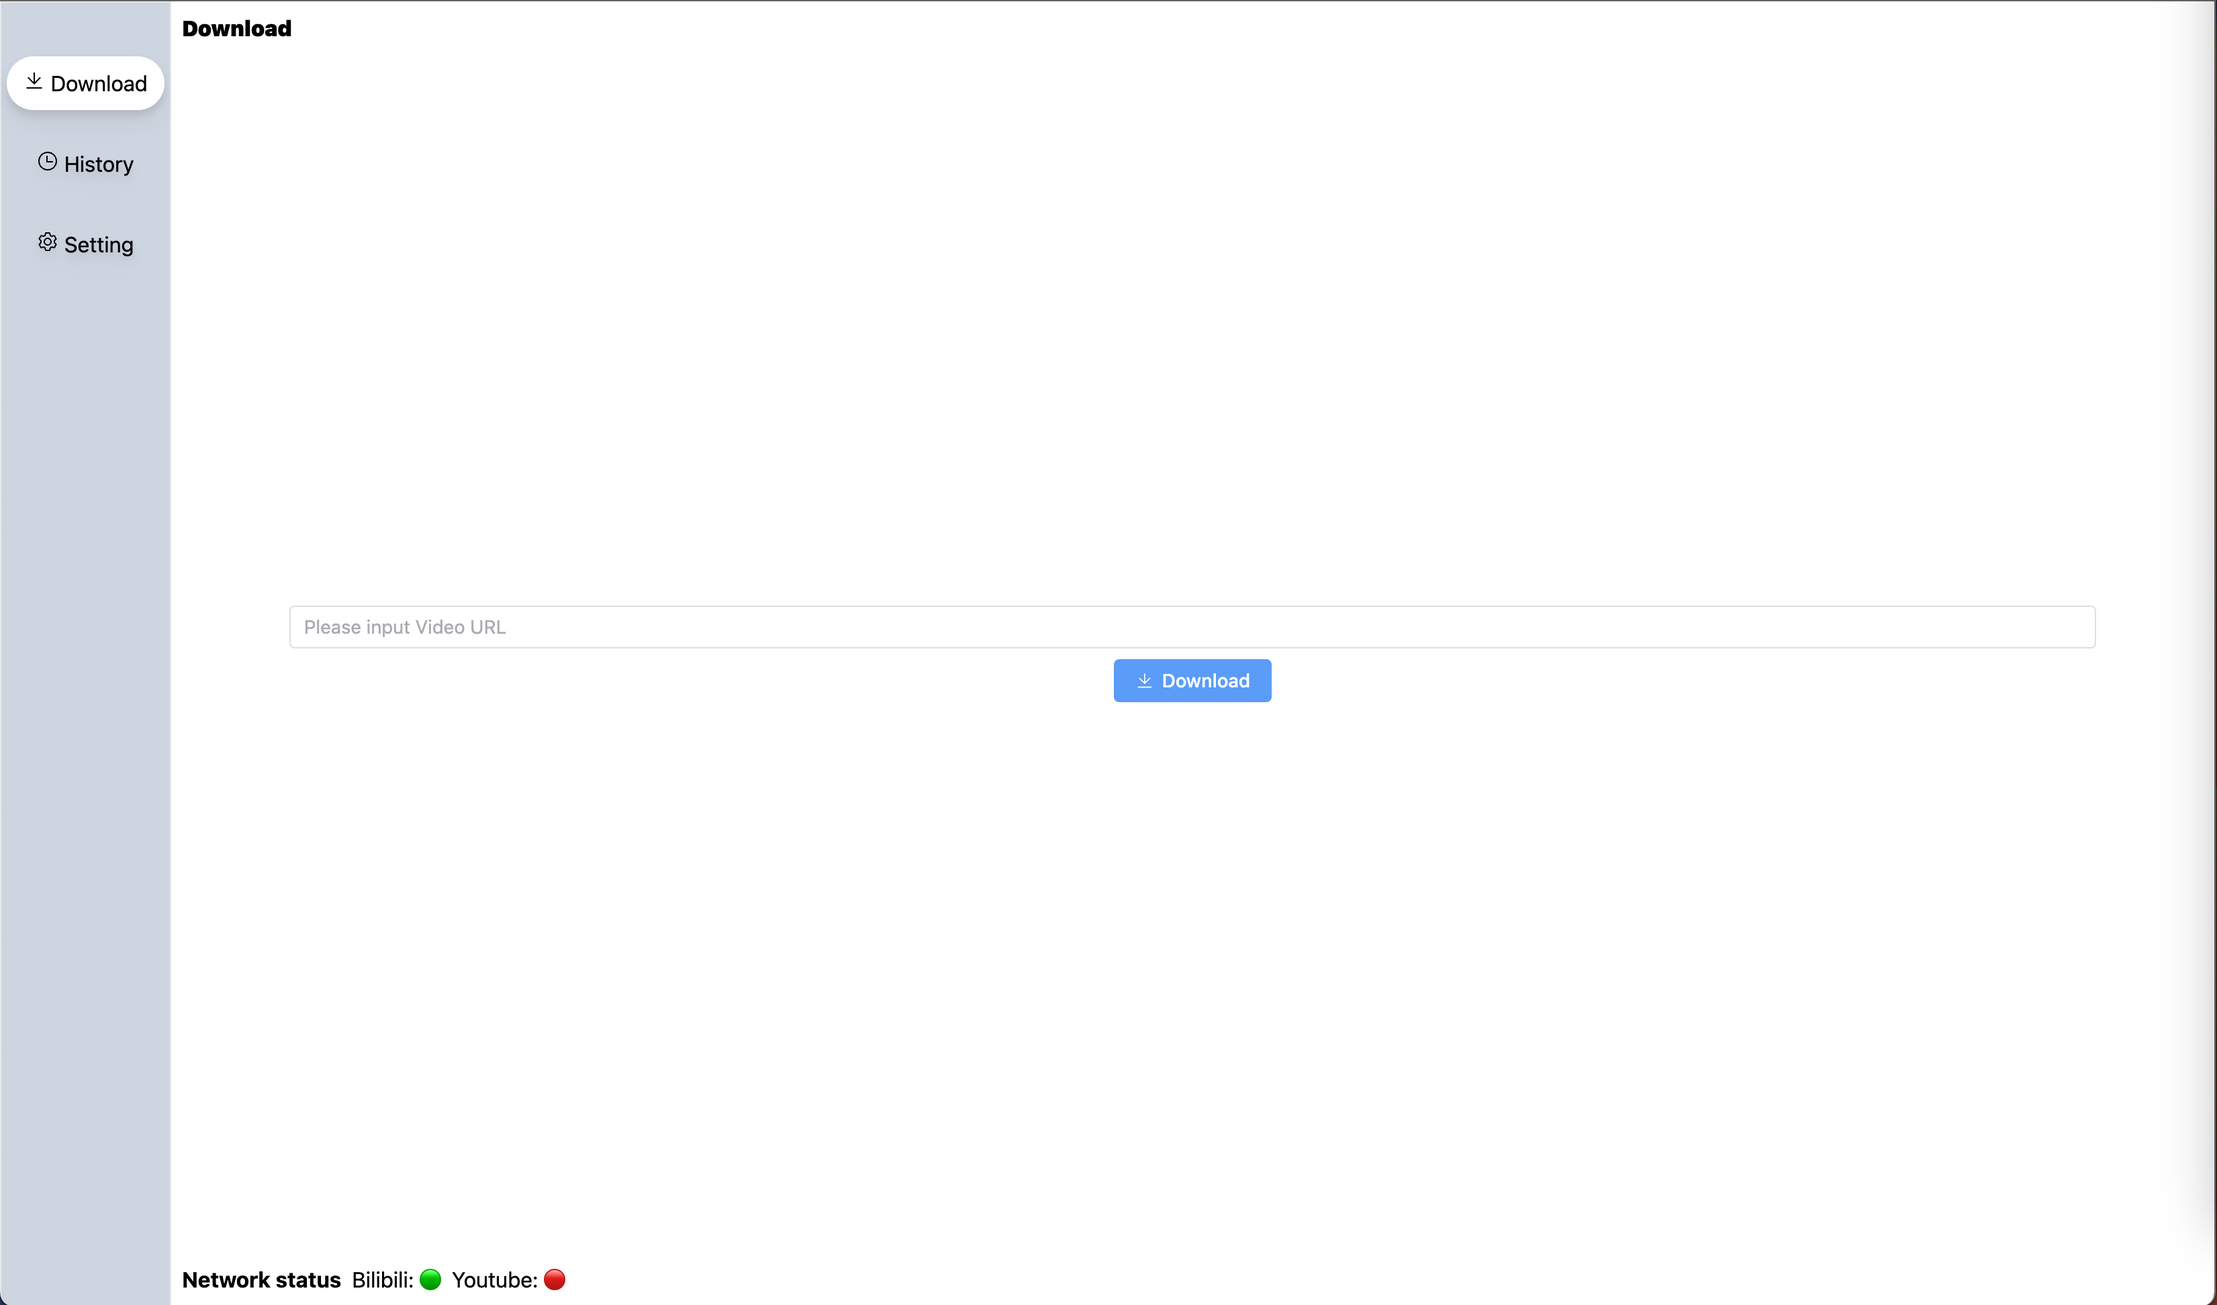
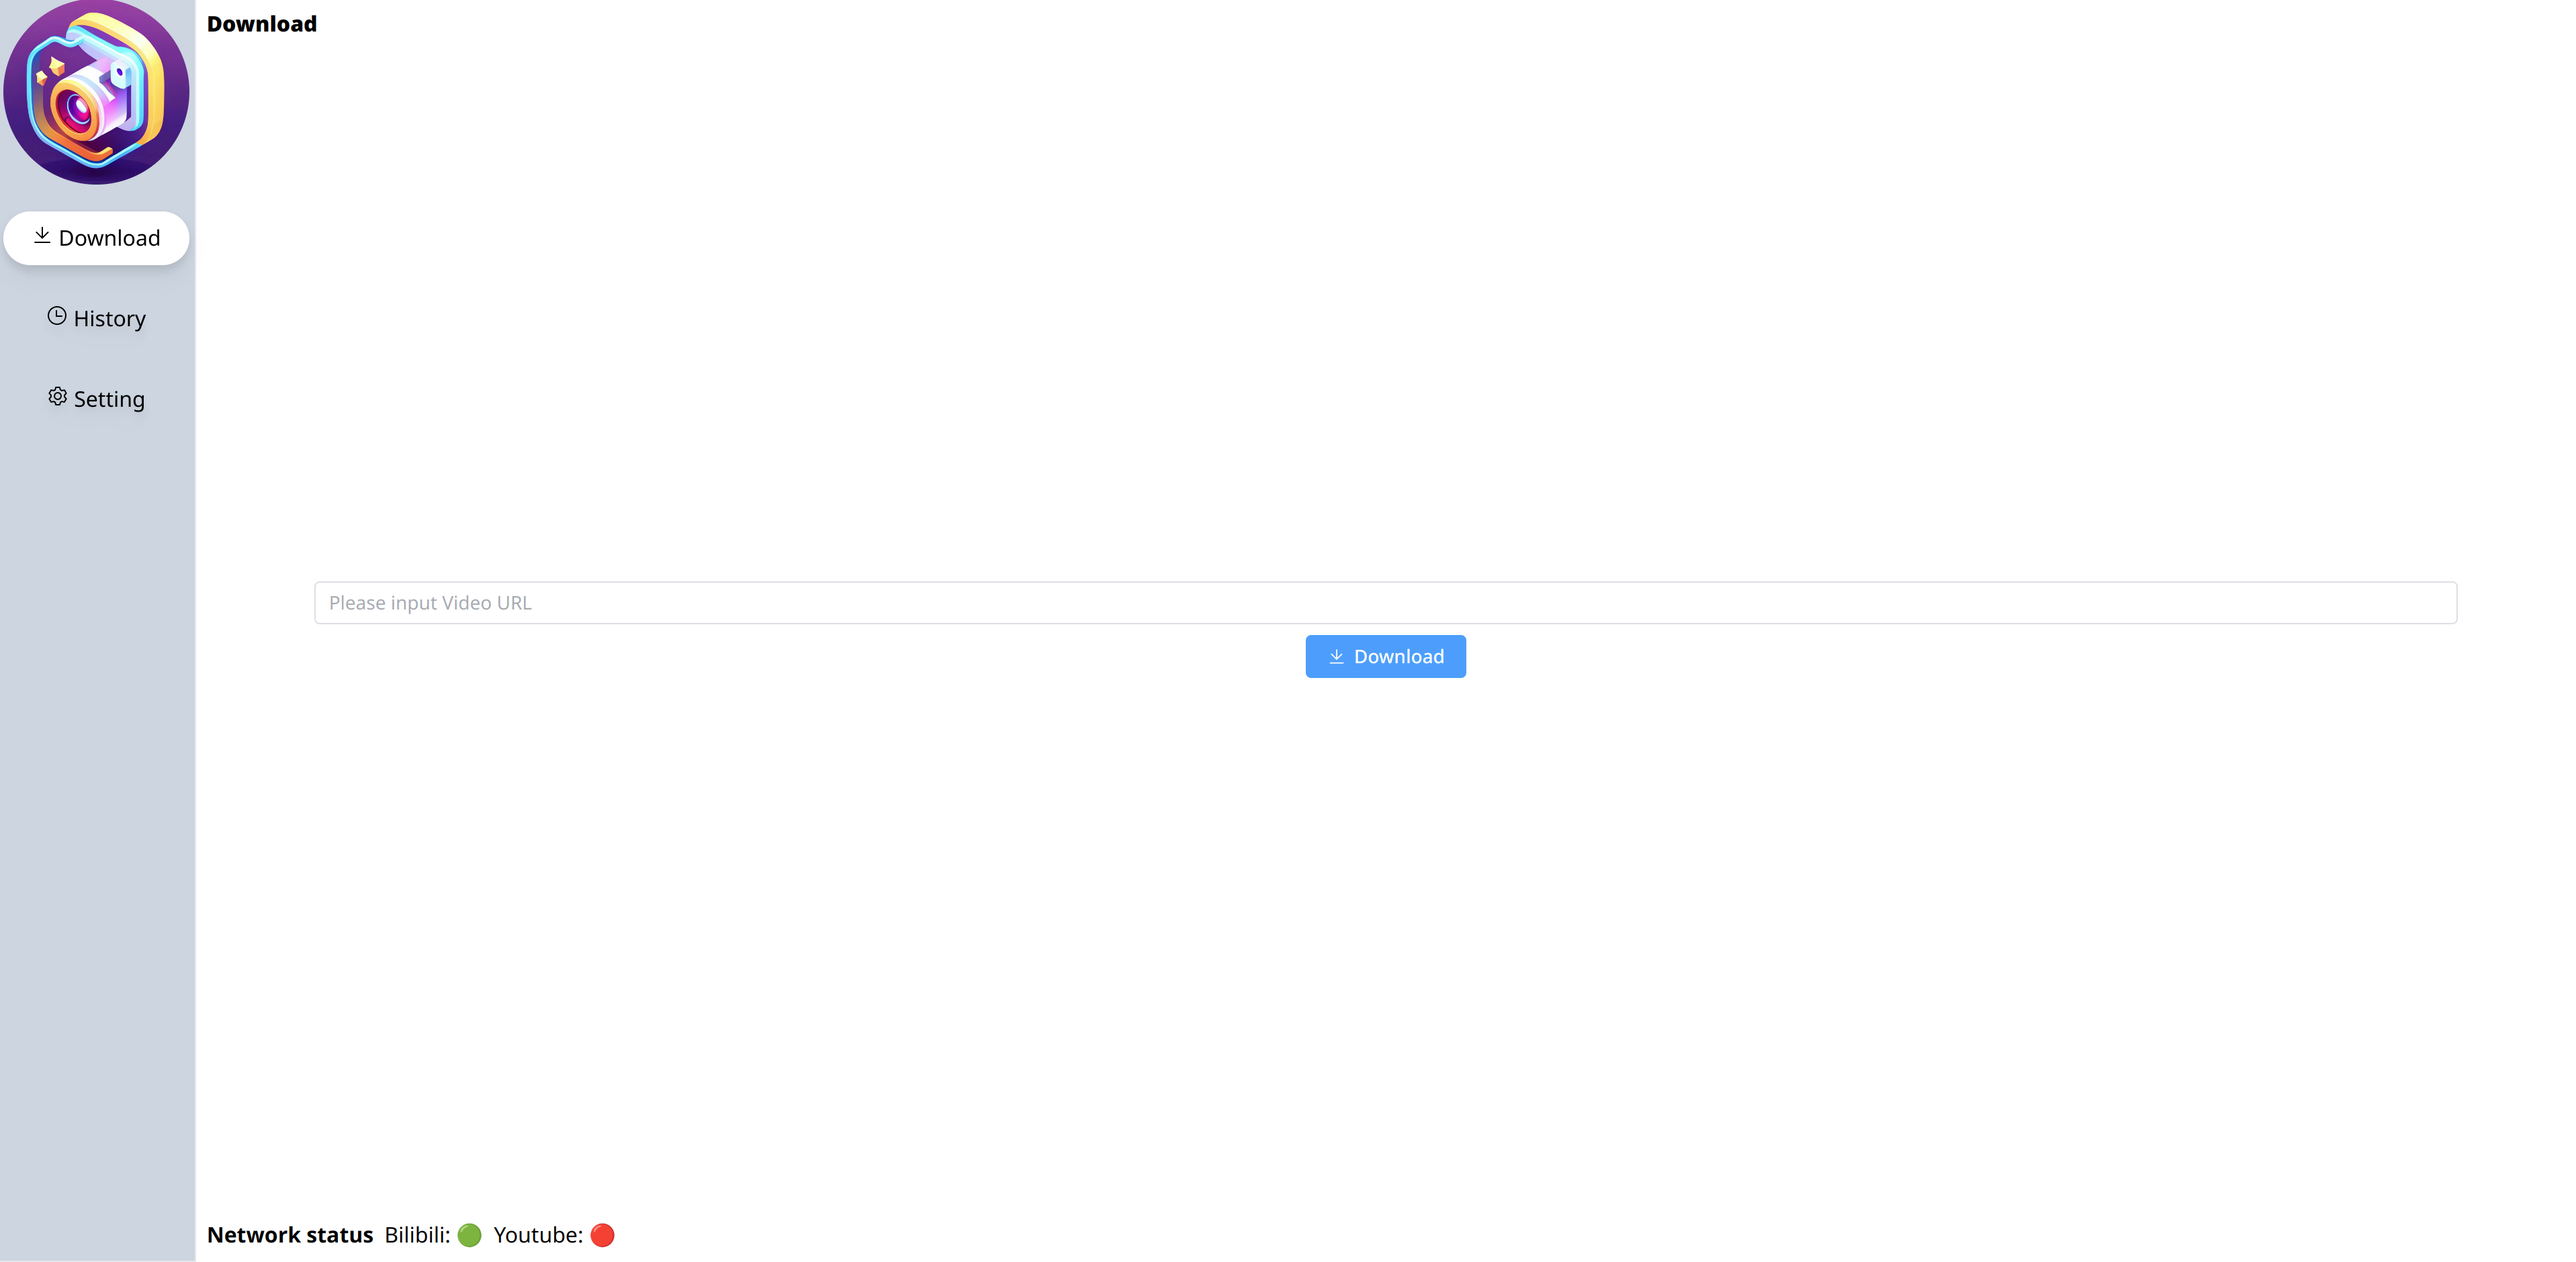
chore: update readme

diff --git a/web/src/App.vue b/web/src/App.vue
@@ -13,8 +13,8 @@ defineExpose({
 <template>
   <div class="flex">
     <div class="flex flex-col border h-screen w-1/12 bg-slate-300 gap-5 px-1">
-      <div class="h-5">
-
+      <div class="rounded-full overflow-hidden">
+          <img src="/logo.jpg" alt="logo" class="h-full w-full" />
       </div>
       <NavTab to="/" >
           <el-icon>
